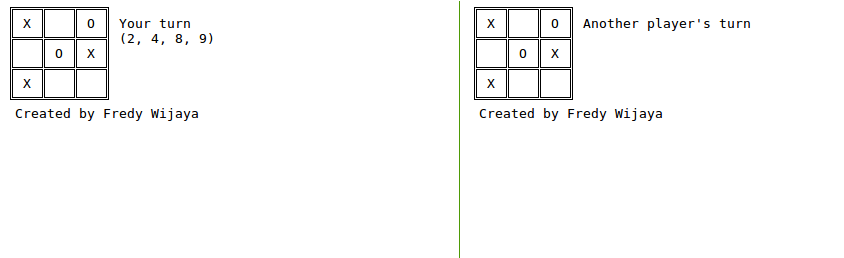
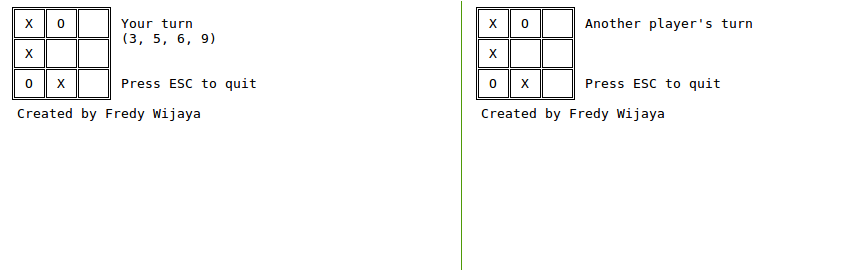
Implement winning/losing feature

Changed region(s): [[0.0, 0.0, 0.3081, 0.4651], [0.5545, 0.0, 0.8934, 0.4651]]

diff --git a/tictactoe.go b/tictactoe.go
@@ -48,7 +48,6 @@ const (
 	apiPath  = "/tictactoe"
 	yourTurn = "Your turn"
 	nextTurn = "Another player's turn"
-	author   = "Created by Fredy Wijaya"
 )
 
 // Game is a struct to store game information.
@@ -137,7 +136,7 @@ func drawSymbol(key string, symbol rune) {
 	termbox.SetCell(position[key].x, position[key].y, symbol, colorDefault, colorDefault)
 }
 
-func setSymbol(game *Game, pos int, symbol rune, updateFunc func()) {
+func setSymbol(game *Game, pos int, symbol rune) {
 	row, col, err := getRowCol(pos)
 	if err != nil {
 		return
@@ -146,9 +145,6 @@ func setSymbol(game *Game, pos int, symbol rune, updateFunc func()) {
 		return
 	}
 	game.Board[row][col] = symbol
-
-	updateFunc()
-
 }
 
 func getRowCol(pos int) (int, int, error) {
@@ -168,7 +164,8 @@ func drawAll(game *Game, status []string) {
 	for i, msg := range status {
 		drawText(15, startY+i+1, msg)
 	}
-	drawText(2, 7, author)
+	drawText(15, 5, "Press ESC to quit")
+	drawText(2, 7, "Created by Fredy Wijaya")
 
 	termbox.Flush()
 }
@@ -202,37 +199,73 @@ func startGame(player uint, conn *websocket.Conn) {
 		drawAll(game, []string{yourTurn, availablePositions(game)})
 	}
 
-	updateFunc := func() {
-		conn.WriteJSON(game)
-		drawAll(game, []string{nextTurn})
-		conn.ReadJSON(&game)
-		drawAll(game, []string{yourTurn, availablePositions(game)})
-	}
+	winner := ' '
+
 exitGame:
 	for {
 		ev := termbox.PollEvent()
 		if ev.Key == termbox.KeyEsc {
 			break exitGame
 		} else if ev.Ch == '1' {
-			setSymbol(game, 1, symbol, updateFunc)
+			setSymbol(game, 1, symbol)
 		} else if ev.Ch == '2' {
-			setSymbol(game, 2, symbol, updateFunc)
+			setSymbol(game, 2, symbol)
 		} else if ev.Ch == '3' {
-			setSymbol(game, 3, symbol, updateFunc)
+			setSymbol(game, 3, symbol)
 		} else if ev.Ch == '4' {
-			setSymbol(game, 4, symbol, updateFunc)
+			setSymbol(game, 4, symbol)
 		} else if ev.Ch == '5' {
-			setSymbol(game, 5, symbol, updateFunc)
+			setSymbol(game, 5, symbol)
 		} else if ev.Ch == '6' {
-			setSymbol(game, 6, symbol, updateFunc)
+			setSymbol(game, 6, symbol)
 		} else if ev.Ch == '7' {
-			setSymbol(game, 7, symbol, updateFunc)
+			setSymbol(game, 7, symbol)
 		} else if ev.Ch == '8' {
-			setSymbol(game, 8, symbol, updateFunc)
+			setSymbol(game, 8, symbol)
 		} else if ev.Ch == '9' {
-			setSymbol(game, 9, symbol, updateFunc)
+			setSymbol(game, 9, symbol)
+		}
+		conn.WriteJSON(game)
+		drawAll(game, []string{nextTurn})
+		end := endGame(game)
+		if end != ' ' {
+			winner = end
+			break exitGame
+		}
+		conn.ReadJSON(&game)
+		drawAll(game, []string{yourTurn, availablePositions(game)})
+		end = endGame(game)
+		if end != ' ' {
+			winner = end
+			break exitGame
 		}
 	}
+
+	if hasWinner(winner) {
+		msg := ""
+		if winner == 'D' {
+			msg = "DRAW"
+		} else if winner == symbol {
+			msg = "YOU WIN"
+		} else {
+			msg = "YOU LOSE"
+		}
+		drawAll(game, []string{msg})
+	endGame:
+		for {
+			switch ev := termbox.PollEvent(); ev.Type {
+			case termbox.EventKey:
+				switch ev.Key {
+				case termbox.KeyEsc:
+					break endGame
+				}
+			}
+		}
+	}
+}
+
+func hasWinner(winner rune) bool {
+	return winner == 'D' || winner == 'O' || winner == 'X'
 }
 
 func availablePositions(game *Game) string {
@@ -250,9 +283,13 @@ func availablePositions(game *Game) string {
 }
 
 func endGame(game *Game) rune {
+	blankCount := 0
 	for row := 0; row < 3; row++ {
 		for col := 0; col < 3; col++ {
 			current := game.Board[row][col]
+			if current == ' ' {
+				blankCount++
+			}
 
 			// top
 			if row-2 >= 0 {
@@ -359,7 +396,10 @@ func endGame(game *Game) rune {
 			}
 		}
 	}
-	return 'D'
+	if blankCount == 0 {
+		return 'D'
+	}
+	return ' '
 }
 
 func startServer(port uint) error {

diff --git a/tictactoe_test.go b/tictactoe_test.go
@@ -161,6 +161,15 @@ func TestEndGame(t *testing.T) {
 		},
 	}
 	assertEquals(t, 'D', endGame(game))
+
+	game = &Game{
+		Board: [][]rune{
+			{'O', ' ', 'X'},
+			{' ', 'X', ' '},
+			{'O', ' ', ' '},
+		},
+	}
+	assertEquals(t, ' ', endGame(game))
 }
 
 func assertEquals(t *testing.T, expected, actual interface{}) {
